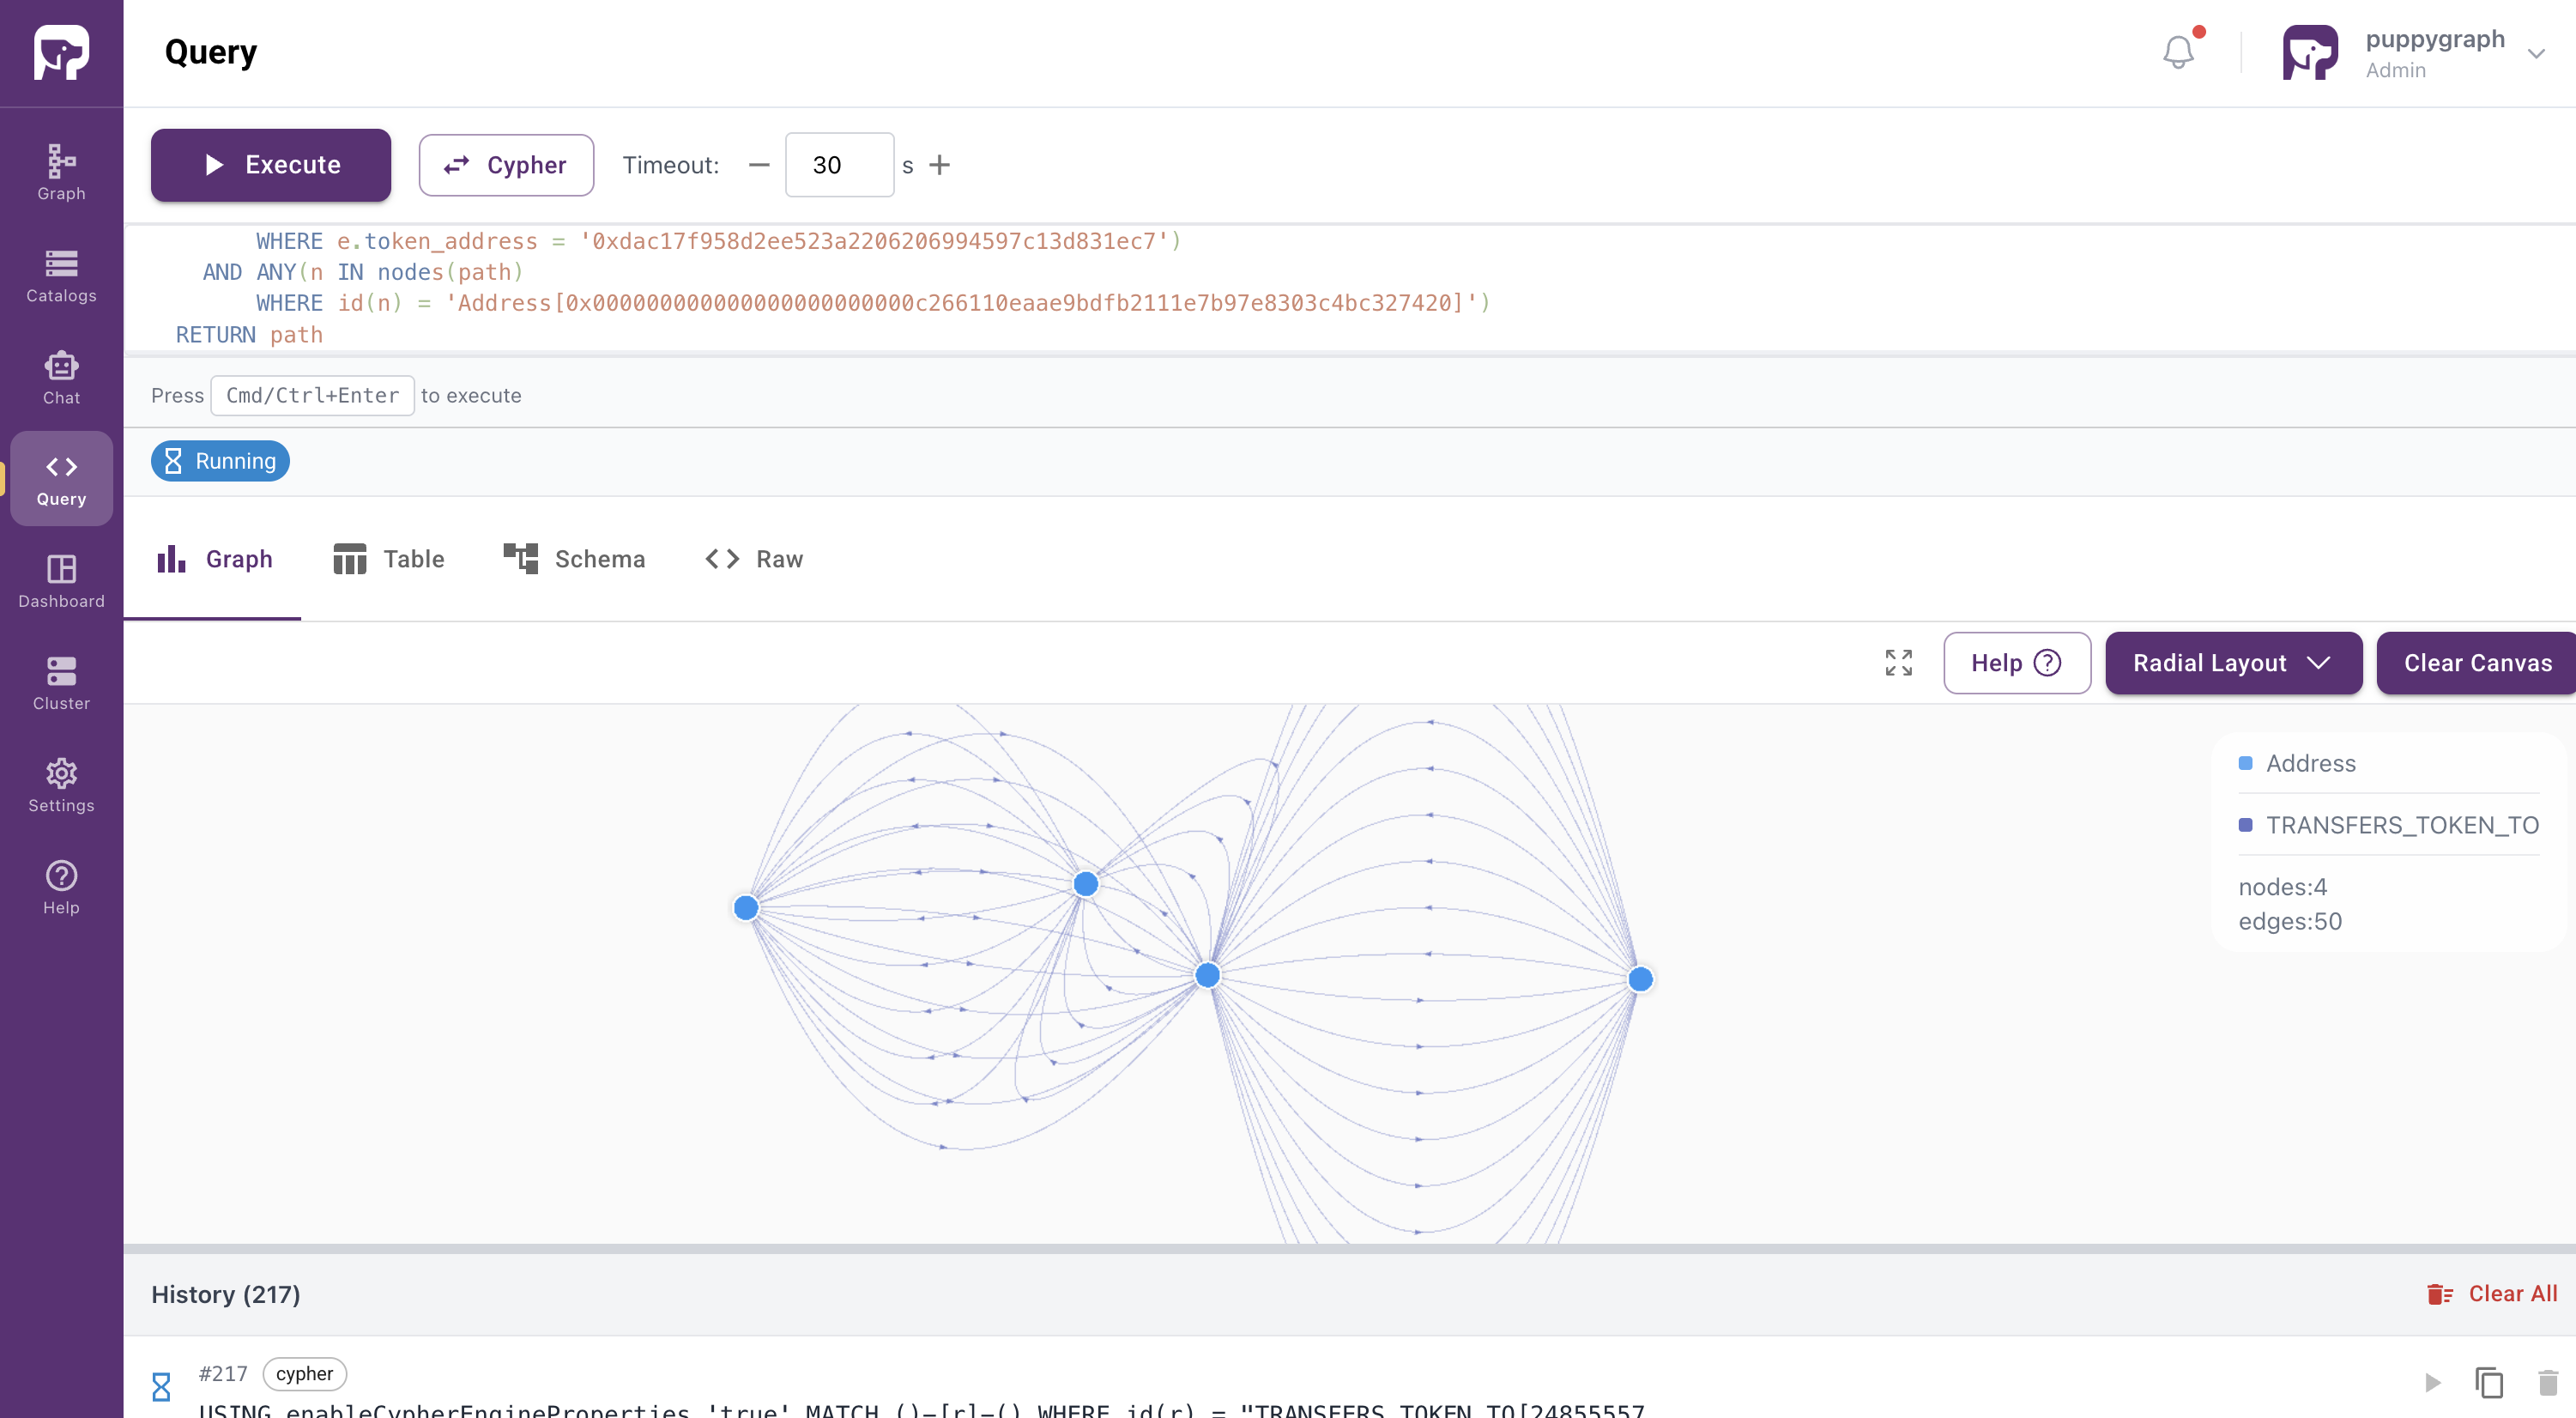
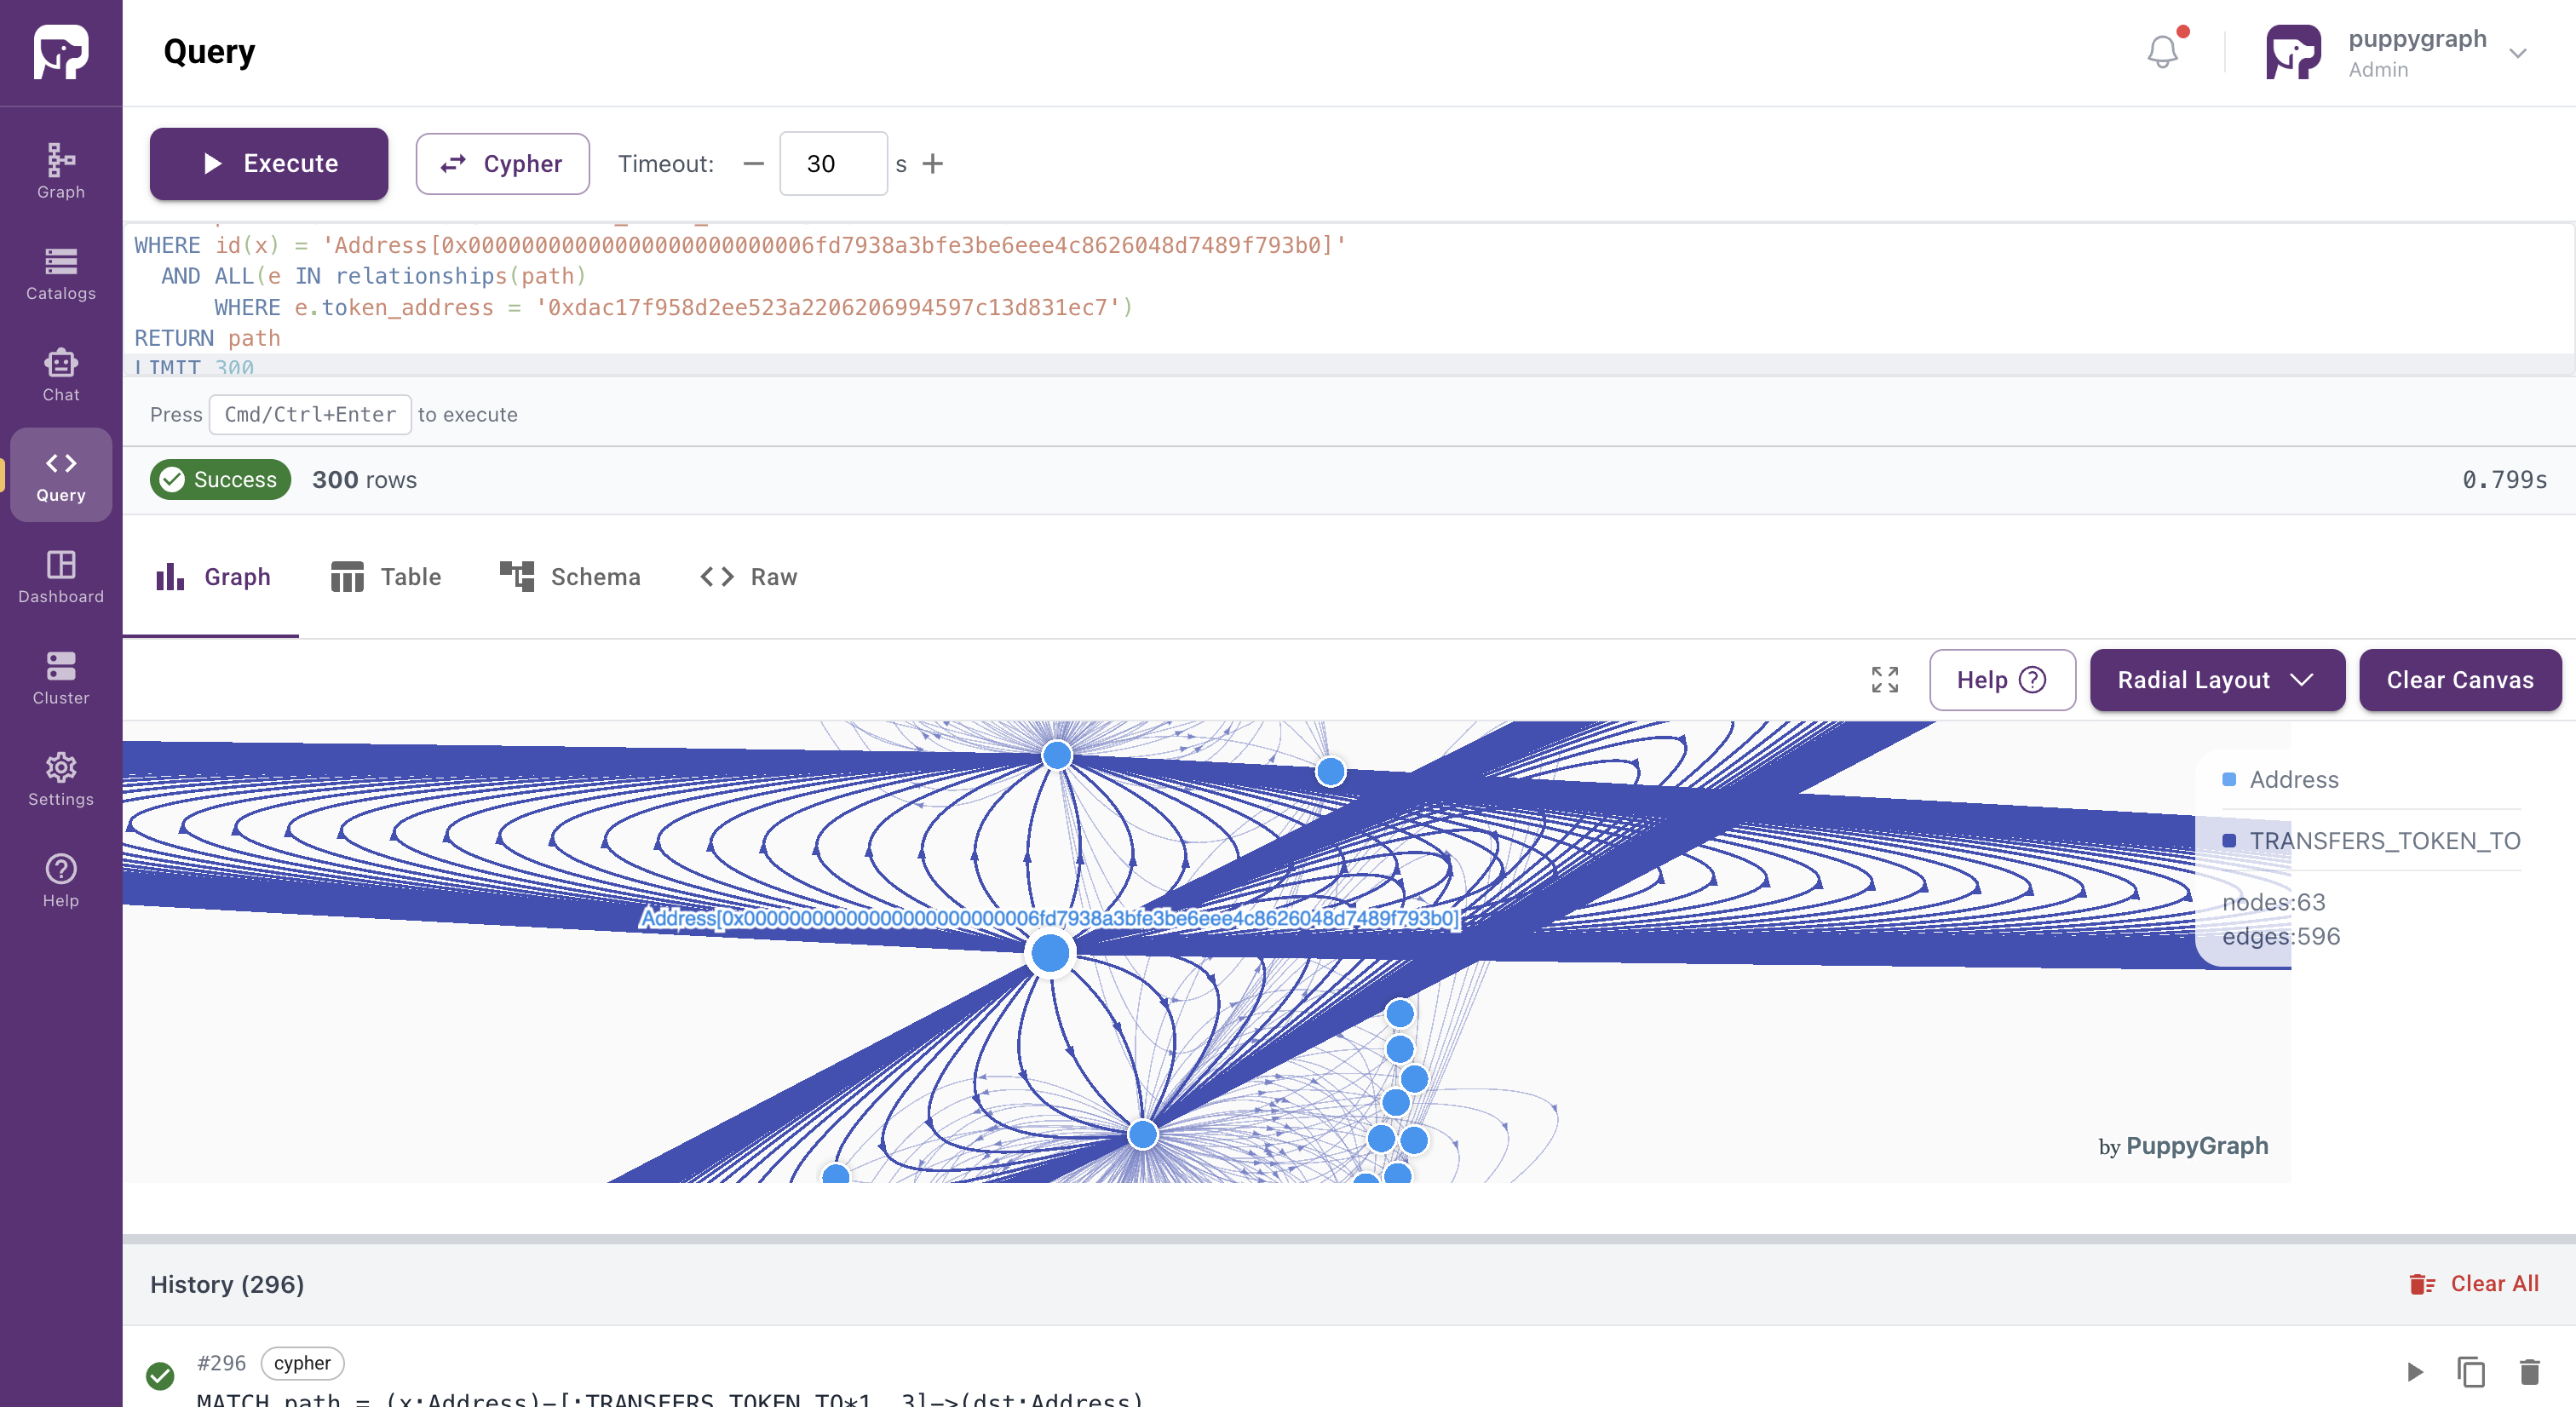
switch queries for cohesive demo

diff --git a/use-case-demos/web3-eth-aws-demo/README.md b/use-case-demos/web3-eth-aws-demo/README.md
@@ -1,15 +1,12 @@
 # Ethereum Blockchain Graph Demo
 
 ## Summary
-This demo shows how to query the [AWS Public Blockchain Dataset](https://registry.opendata.aws/aws-public-blockchain/) as a graph using PuppyGraph. In this demo, we start from a [known phishing wallet](https://etherscan.io/address/0xbe356f13b7b1bc6d89abcbd6272b40427231411f), trace USDT flows through intermediary addresses and surface hidden cycles connecting suspicious entities. The result is a zero-ETL graph query layer over live blockchain data.
+This demo shows how to query the [AWS Public Blockchain Dataset](https://registry.opendata.aws/aws-public-blockchain/) as a graph using PuppyGraph. Starting from a [known phishing wallet](https://etherscan.io/address/0xbe356f13b7b1bc6d89abcbd6272b40427231411f) flagged by HashDit, we trace ETH gas-funding infrastructure and USDT flows through a coordinated collection network to its final destinations. Zero ETL required.
 
 ## Prerequisites
 - Docker
 - AWS CLI
 - An AWS account with permissions for S3 and Glue
-
-## Note
-The Data Preparation step below populates a date-scoped subset of Ethereum transaction data for demonstration purposes. For real-world use cases, you can directly connect your existing data sources to PuppyGraph without data preparation. You can either use publicly available sample data or apply your own datasets.
 
 ## Data Preparation
 
@@ -129,52 +126,38 @@ Navigate to the Query panel on the left side. The Graph Query tab offers an inte
 
 Example Queries:
 
-1. Find All Wallets Feeding a Suspicious Address
-   ```cypher
-   MATCH path = (funder:Address)-[:TRANSFERS_TOKEN_TO*2..3]->(x:Address)
-   WHERE id(x) = 'Address[0x000000000000000000000000bdf9c0abe5b265671ad4efc365f6c0ad05d4fe89]'
-     AND ALL(e IN relationships(path)
-         WHERE e.token_address = '0xdac17f958d2ee523a2206206994597c13d831ec7')
-   RETURN path
-   LIMIT 300
-   ```
-  ![](/use-case-demos/web3-eth-aws-demo/images/1.png)
+Example Queries:
 
-2. Trace USDT Flows Leaving a Suspicious Wallet
-   ```cypher
-   MATCH path = (x:Address)-[:TRANSFERS_TOKEN_TO*2..3]->(dest:Address)
-   WHERE id(x) = 'Address[0x000000000000000000000000bdf9c0abe5b265671ad4efc365f6c0ad05d4fe89]'
-     AND ALL(e IN relationships(path)
-         WHERE e.token_address = '0xdac17f958d2ee523a2206206994597c13d831ec7')
-   RETURN path
-   LIMIT 50
-   ```
-   ![](/use-case-demos/web3-eth-aws-demo/images/2.png)
+1. Who is the controller funding, and at what scale?
+```cypher
+MATCH path = (controller:Address)-[:TRANSACTS_TO*2..3]->(wallet:Address)
+WHERE id(controller) = 'Address[0xbe356f13b7b1bc6d89abcbd6272b40427231411f]'
+RETURN path, id(wallet)
+LIMIT 100
+```
+![](/use-case-demos/web3-eth-aws-demo/images/1.png)
 
-3. Detect Hidden Cycles Through a Known Intermediary
-   ```cypher
-   MATCH path = (x:Address)-[:TRANSFERS_TOKEN_TO*4..6]->(x)
-   WHERE id(x) = 'Address[0x000000000000000000000000bdf9c0abe5b265671ad4efc365f6c0ad05d4fe89]'
-     AND ALL(e IN relationships(path)
-         WHERE e.token_address = '0xdac17f958d2ee523a2206206994597c13d831ec7')
-     AND ANY(n IN nodes(path)
-         WHERE id(n) = 'Address[0x000000000000000000000000c266110eaae9bdfb2111e7b97e8303c4bc327420]')
-   RETURN path
-   LIMIT 10
-   ```
-  ![](/use-case-demos/web3-eth-aws-demo/images/3.png)
+2. Which wallets are feeding the collection address?
+```cypher
+MATCH path = (src:Address)-[:TRANSFERS_TOKEN_TO*1..3]->(x:Address)
+WHERE id(x) = 'Address[0x00000000000000000000000006fd7938a3bfe3be6eee4c8626048d7489f793b0]'
+  AND ALL(e IN relationships(path)
+      WHERE e.token_address = '0xdac17f958d2ee523a2206206994597c13d831ec7')
+RETURN path
+LIMIT 300
+```
+![](/use-case-demos/web3-eth-aws-demo/images/2.png)
 
-4. Surface Round-Trip Paths Through the Poisoning Wallet
-   ```cypher
-   MATCH path = (x:Address)-[:TRANSFERS_TOKEN_TO*2..3]->(poison:Address)-[:TRANSFERS_TOKEN_TO*2..3]->(x)
-   WHERE id(x) = 'Address[0x000000000000000000000000bdf9c0abe5b265671ad4efc365f6c0ad05d4fe89]'
-     AND id(poison) = 'Address[0x000000000000000000000000c266110eaae9bdfb2111e7b97e8303c4bc327420]'
-     AND ALL(e IN relationships(path)
-         WHERE e.token_address = '0xdac17f958d2ee523a2206206994597c13d831ec7')
-   RETURN path
-   LIMIT 10
-   ```
-   ![](/use-case-demos/web3-eth-aws-demo/images/4.png)
+3. Where does the USDT flow after leaving the collection point?
+```cypher
+MATCH path = (x:Address)-[:TRANSFERS_TOKEN_TO*1..3]->(dst:Address)
+WHERE id(x) = 'Address[0x00000000000000000000000006fd7938a3bfe3be6eee4c8626048d7489f793b0]'
+  AND ALL(e IN relationships(path)
+      WHERE e.token_address = '0xdac17f958d2ee523a2206206994597c13d831ec7')
+RETURN path
+LIMIT 300
+```
+![](/use-case-demos/web3-eth-aws-demo/images/3.png)
 
 ## Cleanup and Teardown
 To stop and remove the PuppyGraph container, run: